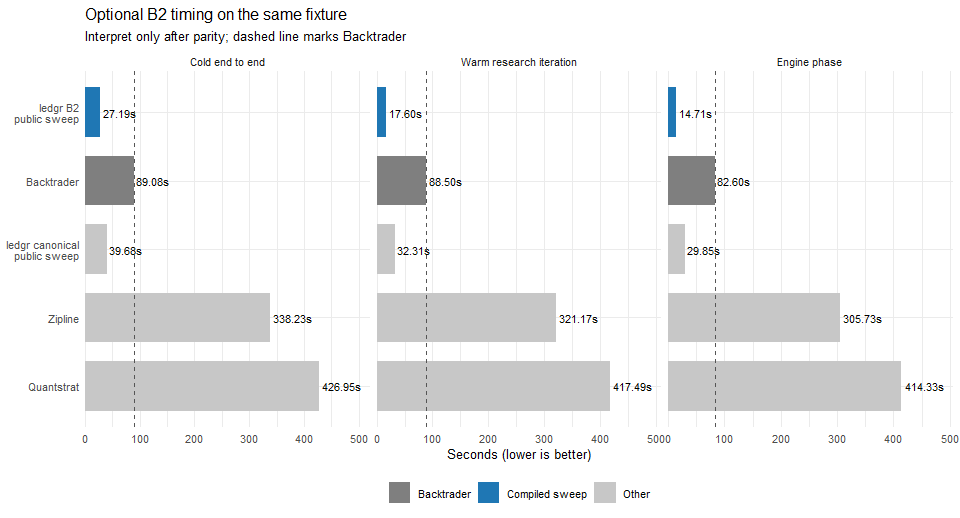
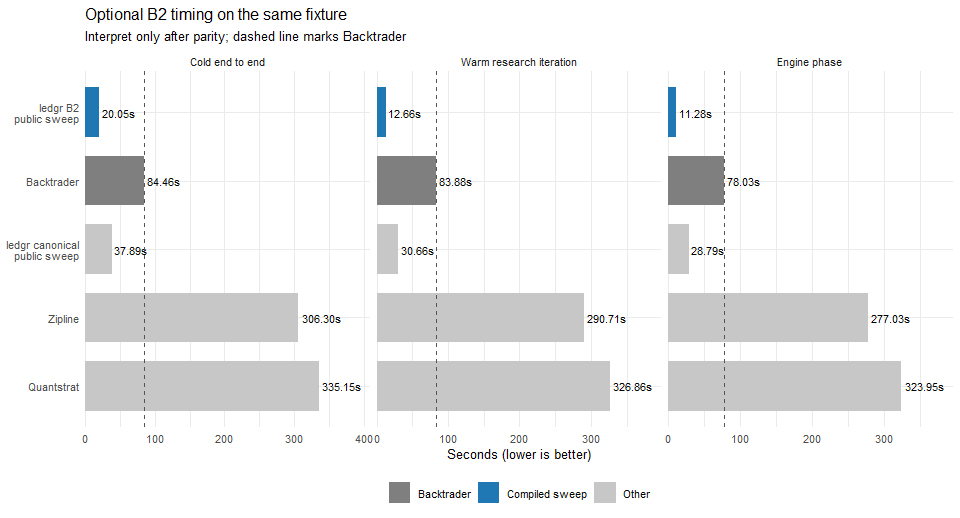
LDG-2825 record the v0.2.1.0 release peer benchmark
Two runs from the release commit cfa8c67 on CRAN's duckdb 1.5.6; every
correctness and parity check passes, and the second run is promoted.

diff --git a/dev/bench/peer_benchmark/peer_benchmark.md b/dev/bench/peer_benchmark/peer_benchmark.md
@@ -10,42 +10,57 @@ The exact sampled record command was:
 
 ``` powershell
 & dev/bench/peer_benchmark/run_record.ps1 `
-  -RepoRoot "C:\tmp\ledgr-ws12" `
+  -RepoRoot "C:\tmp\ledgr-ws29" `
   -Release "v0.2.1.0" `
-  -LedgrOrder "ttr-first"
+  -LedgrOrder "ttr-first" `
+  -RProfile "C:\tmp\ledgr-release-0210-profile.R"
 ```
 
 The exact ignored local prefix is
-`dev/bench/results/peer_benchmark_record_20260926T080725Z`. It was
-measured from commit `c7d936ddccbdf7affbdcd1c9be22f7d8fdaa7eb0`; the
-exact benchmark harness has SHA-256
[1 lines of base64/hex data omitted]
-ran under R 4.6.1 ucrt on Windows build 26200. Quantstrat 0.25 completed
-from the isolated library with the ticket-pinned blotter 0.17.0,
-FinancialInstrument 1.3.0, xts 0.14.2, and TTR 0.24.4. Backtrader and
-zipline-reloaded completed through pinned `uv` environments. Local LEAN
-was unavailable because its CLI root uses an obsolete organization
-layout. No hosted LEAN service was used.
+`dev/bench/results/peer_benchmark_record_20261001T055357Z`. It was
+measured from commit `cfa8c67127aa3e0ebd27714c147f11891ae5cbe5`, the
+release commit that entered release-branch CI; the exact benchmark
+harness has SHA-256
[1 lines of base64/hex data omitted]
+ran under R 4.6.1 ucrt on Windows build 26200 with CRAN’s duckdb 1.5.6,
+which the release requires: the release R profile puts that library
+first. The previously promoted record of 2026-09-26 ran on duckdb 1.5.2,
+which its profile picked up from an older user library; the environment
+sidecar does not record the duckdb version, so this is disclosed here.
+Quantstrat 0.25 completed from the isolated library with the
+ticket-pinned blotter 0.17.0, FinancialInstrument 1.3.0, xts 0.14.2, and
+TTR 0.24.4. Backtrader and zipline-reloaded completed through pinned
+`uv` environments. Local LEAN was unavailable because its CLI root uses
+an obsolete organization layout. No hosted LEAN service was used.
 
 The report checks every ledgr row before interpreting its timing. The
-canonical public sweep completed in 39.68 seconds cold and 32.31 seconds
-warm; the public compiled sweep completed in 27.19 seconds cold and
-17.60 seconds warm. The two public sweep rows are exact across all 1,260
-equity rows, 68,201 fills, and the realized-trade row after normalizing
-only the engine label. Against durable ledgr, fills and trades are
-exact; compensated production-inline equity passes the existing relative
-`all.equal()` tolerance of `1e-8`, with maximum absolute residual
-`1.9744e-07`, maximum relative residual `1.971e-14`, and affected column
-`equity` across 1,222 rows. Earlier diagnostic peer CSVs used
-reconstructed equity; this final record uses compensated
-production-inline equity as the memory reference. Richer surfaces come
-from an explicitly untimed private oracle and are used only for parity.
-The report retains peer residuals and partial surfaces rather than
-turning a numerical tolerance into a claim of full parity. Zipline now
-pairs all 1,260 source sessions positionally and records daily-return
-correlation `0.987974`; the v0.2.0.1 report’s `0.146064` was produced by
-the disclosed one-day timestamp misalignment and remains historical
-evidence rather than being rewritten.
+canonical public sweep completed in 37.89 seconds cold and 30.66 seconds
+warm; the public compiled sweep completed in 20.05 seconds cold and
+12.66 seconds warm. The two public sweeps and durable ledgr are exact
+across all 1,260 equity rows, 68,201 fills, and the realized-trade row
+after normalizing only the engine label. Richer surfaces come from an
+explicitly untimed private oracle and are used only for parity. The
+report retains peer residuals and partial surfaces rather than turning a
+numerical tolerance into a claim of full parity. Zipline pairs all 1,260
+source sessions positionally and records daily-return correlation
+`0.987974`; the v0.2.0.1 report’s `0.146064` was produced by the
+disclosed one-day timestamp misalignment and remains historical evidence
+rather than being rewritten.
+
+This record is the second of two release runs from the same commit and
+command. The first, `peer_benchmark_record_20261001T053231Z`, passed the
+same correctness and parity checks. Its durable public TTR row took
+64.89 seconds against this record’s 57.94 and the promoted record’s
+60.94, while every other row reproduced within about 8 percent; the
+repeat shows that row’s spread on one host, not a package change, and
+neither run is a regression of it. Against the promoted record every
+ledgr row is as fast or faster: the compiled sweep by 26 percent and
+durable built-in SMA by 24 percent. The peer engines, whose code did not
+change, also ran 5 to 22 percent faster, so the host itself was faster;
+no ledgr speedup is claimed from this comparison. The sampled process
+tree peaked at 2,284.1 MiB across 885 one-second samples, against
+1,667.4 MiB in the first run and 1,715.7 MiB in the promoted record; the
+peak includes the Python peers and is not a ledgr memory claim.
 
 Workstream 17 also corrects the indicator boundary. All published TTR
 rows now use exported `ledgr_ind_ttr("SMA")`; the retired private
@@ -54,13 +69,14 @@ fresh R processes with identical R, library-path and package-version
 records. Their feature axes and NA masks are exact; 1,260,000 numeric
 cells pass the existing `1e-8` tolerance with maximum absolute residual
 `7.567e-10`. Equity, fills and realized trades are exact. Timing does
-not identify a source effect: the promoted TTR-first record reports warm
-clocks of 53.02 and 68.33 seconds. The six-order attribution spike
-independently places every source in every process position twice; each
-contrast changes direction. That spike classifies the old 9.57-second
-chart gap as order-confounded rather than a package-speed difference. A
-later built-in-first diagnostic is excluded because its command was not
-recorded and its first-position clock did not reproduce the spike.
+not identify a source effect: this TTR-first record reports warm clocks
+of 50.42 and 50.08 seconds, the 2026-09-26 record 53.02 and 68.33. The
+six-order attribution spike independently places every source in every
+process position twice; each contrast changes direction. That spike
+classifies the old 9.57-second chart gap as order-confounded rather than
+a package-speed difference. A later built-in-first diagnostic is
+excluded because its command was not recorded and its first-position
+clock did not reproduce the spike.
 
 > **Scope of this report**
 >
@@ -81,9 +97,9 @@ comparison.
 
 | Surface | B2 seconds | Backtrader seconds | B2 / Backtrader | B2 reduction vs Backtrader |
 |:---|:---|:---|:---|:---|
-| Cold end to end | 27.190 | 89.080 | 0.31x | 69.5% |
-| Warm research iteration | 17.600 | 88.498 | 0.20x | 80.1% |
-| Engine phase | 14.710 | 82.605 | 0.18x | 82.2% |
+| Cold end to end | 20.050 | 84.460 | 0.24x | 76.3% |
+| Warm research iteration | 12.660 | 83.885 | 0.15x | 84.9% |
+| Engine phase | 11.280 | 78.027 | 0.14x | 85.5% |
 
 The three clocks answer different questions. Cold includes the reusable
 sealed snapshot. Warm measures the public research iteration over that
@@ -159,13 +175,13 @@ prevents reading a compiled opt-in result as a default ledgr claim.
 
 | Engine row | Status | Cost | Risk | Compiled | Full row | Snapshot prepare | Setup / orchestration | Engine phase | Results | Cold | Warm | Bars/sec |
 |:---|:---|:---|:---|:---|:---|:---|:---|:---|:---|:---|:---|:---|
-| ledgr_ttr_canonical | DONE | cost_zero | risk_none | NA | 60.860 | 7.800 | 0.360 | 47.440 | 5.220 | 60.820 | 53.020 | 10,358.4 |
-| ledgr_ttr_canonical_sweep | DONE | cost_zero | risk_none | NA | 39.770 | 7.370 | 2.460 | 29.850 | 0.000 | 39.680 | 32.310 | 15,877 |
-| ledgr_ttr_compiled_spot_fifo_sweep | DONE | cost_zero | risk_none | spot_fifo | 27.250 | 9.590 | 2.830 | 14.710 | 0.060 | 27.190 | 17.600 | 23,170.3 |
-| ledgr_builtin_sma | DONE | cost_zero | risk_none | NA | 76.190 | 7.830 | 0.470 | 61.670 | 6.190 | 76.160 | 68.330 | 8,272.06 |
-| quantstrat | DONE | NA | NA | NA | 427.110 | 9.460 | 1.970 | 414.330 | 1.190 | 426.950 | 417.490 | 1,475.58 |
-| backtrader | DONE | NA | NA | NA | 89.110 | 0.582 | 5.627 | 82.605 | 0.266 | 89.080 | 88.498 | 7,072.29 |
-| zipline-reloaded-full | DONE | NA | NA | NA | 338.230 | 17.063 | 14.558 | 305.732 | 0.877 | 338.230 | 321.167 | 1,862.64 |
+| ledgr_ttr_canonical | DONE | cost_zero | risk_none | NA | 57.940 | 7.500 | 0.060 | 45.530 | 4.830 | 57.920 | 50.420 | 10,877.1 |
+| ledgr_ttr_canonical_sweep | DONE | cost_zero | risk_none | NA | 37.920 | 7.230 | 1.830 | 28.790 | 0.040 | 37.890 | 30.660 | 16,627.1 |
+| ledgr_ttr_compiled_spot_fifo_sweep | DONE | cost_zero | risk_none | spot_fifo | 20.050 | 7.390 | 1.320 | 11.280 | 0.060 | 20.050 | 12.660 | 31,421.4 |
+| ledgr_builtin_sma | DONE | cost_zero | risk_none | NA | 57.630 | 7.500 | 0.080 | 45.280 | 4.720 | 57.580 | 50.080 | 10,941.3 |
+| quantstrat | DONE | NA | NA | NA | 335.330 | 8.290 | 1.770 | 323.950 | 1.140 | 335.150 | 326.860 | 1,879.76 |
+| backtrader | DONE | NA | NA | NA | 84.490 | 0.575 | 5.599 | 78.027 | 0.258 | 84.460 | 83.885 | 7,459.15 |
+| zipline-reloaded-full | DONE | NA | NA | NA | 306.300 | 15.590 | 13.138 | 277.031 | 0.541 | 306.300 | 290.710 | 2,056.81 |
 | LEAN | UNAVAILABLE | NA | NA | NA | NULL | NULL | NULL | NULL | NULL | NULL | NULL | NA |
 
 Read `Cold` as the sum of snapshot preparation, setup/orchestration,
@@ -465,12 +481,12 @@ are vector operations rather than a per-instrument R loop.
 
 | field | value |
 |:---|:---|
-| created_at | 2026-09-26T08:07:25Z |
+| created_at | 2026-10-01T05:53:58Z |
 | release | v0.2.1.0 |
 | preset | record |
 | input_hash | 0b183457b3fe720d63b02a90fe552e1202fdb31b4e967a75e91304f9d3e416fc |
-| git_sha | c7d936ddccbdf7affbdcd1c9be22f7d8fdaa7eb0 |
-| process_tree_peak_mib | 1715.7 |
+| git_sha | cfa8c67127aa3e0ebd27714c147f11891ae5cbe5 |
+| process_tree_peak_mib | 2284.1 |
 | peak_sampling_interval_sec | 1 |
 
 ### Isolated quantstrat environment

diff --git a/dev/bench/peer_benchmark/README.md b/dev/bench/peer_benchmark/README.md
@@ -87,6 +87,35 @@ known 1,250-row Backtrader warm-up boundary and rejects the regressed
 1,008-row Zipline join. The complete sampled process tree peaked at
 1,753.8 MiB across 892 one-second samples.
 
+## v0.2.1.0 Release Record
+
+The release gate's record renders the ignored local prefix
+`dev/bench/results/peer_benchmark_record_20261001T055357Z`, measured from the
+release commit `cfa8c67127aa3e0ebd27714c147f11891ae5cbe5` with:
+
+```powershell
+& dev/bench/peer_benchmark/run_record.ps1 `
+  -RepoRoot "C:\tmp\ledgr-ws29" `
+  -Release "v0.2.1.0" `
+  -LedgrOrder "ttr-first" `
+  -RProfile "C:\tmp\ledgr-release-0210-profile.R"
+```
+
+The release profile puts CRAN's duckdb 1.5.6, which the release requires,
+first on the library path; the 2026-09-26 record below ran on duckdb 1.5.2, and
+the environment sidecar does not record the duckdb version. Correctness,
+canonical-versus-compiled differential parity, surface retention and peer
+parity all pass; the public sweeps and durable ledgr are exact across 1,260
+equity rows and 68,201 fills. LEAN was unavailable (obsolete local CLI root).
+This is the second of two runs from the same commit and command; the first,
+`peer_benchmark_record_20261001T053231Z`, passed the same checks with its
+durable public TTR row at 64.89 seconds against 57.94 here and 60.94 in the
+promoted record, while the other rows reproduced within about 8 percent. That
+spread is host variance on one row, not a package change. Against the 2026-09-26
+record every ledgr row is as fast or faster, but the unchanged peer engines
+were also 5 to 22 percent faster, so no ledgr speedup is claimed. The sampled
+process tree peaked at 2,284.1 MiB across 885 one-second samples.
+
 ## v0.2.1.0 Public TTR Boundary Record
 
 Workstream 17 replaces the private benchmark-only TTR wrapper with exported
